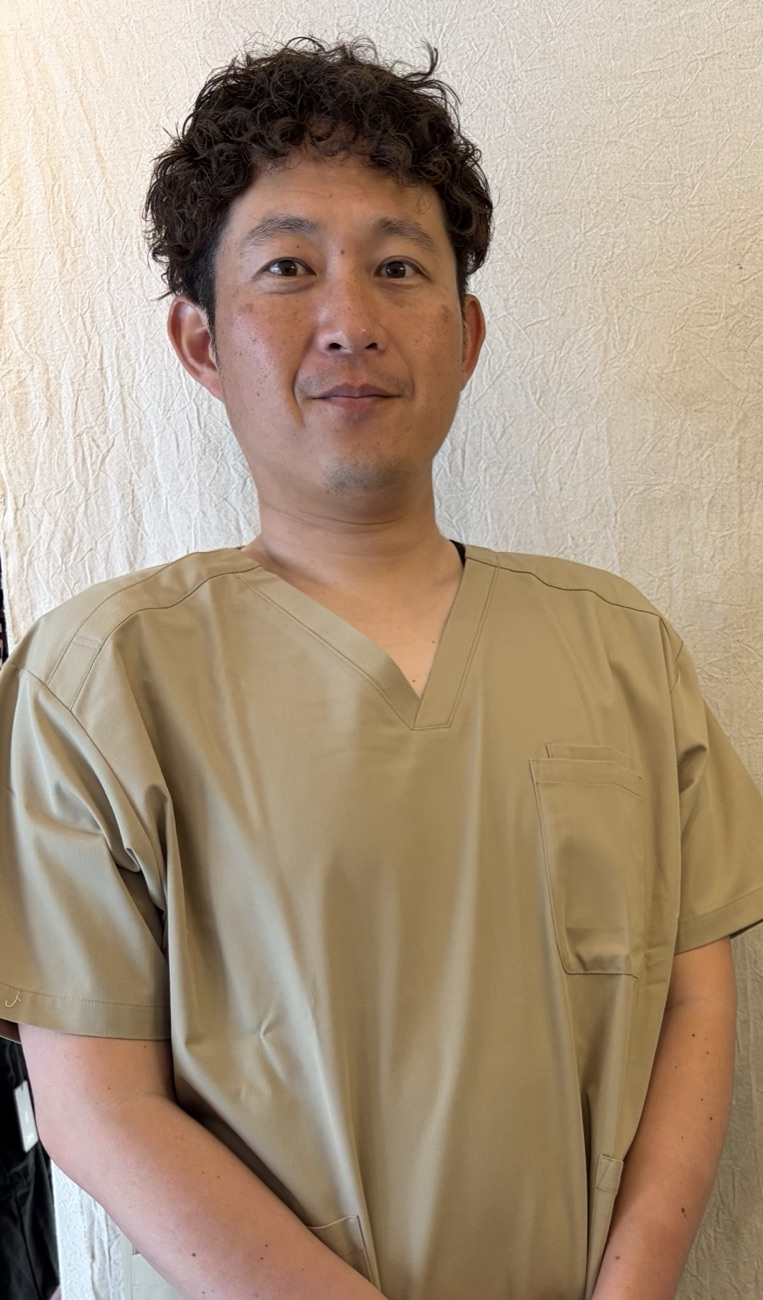
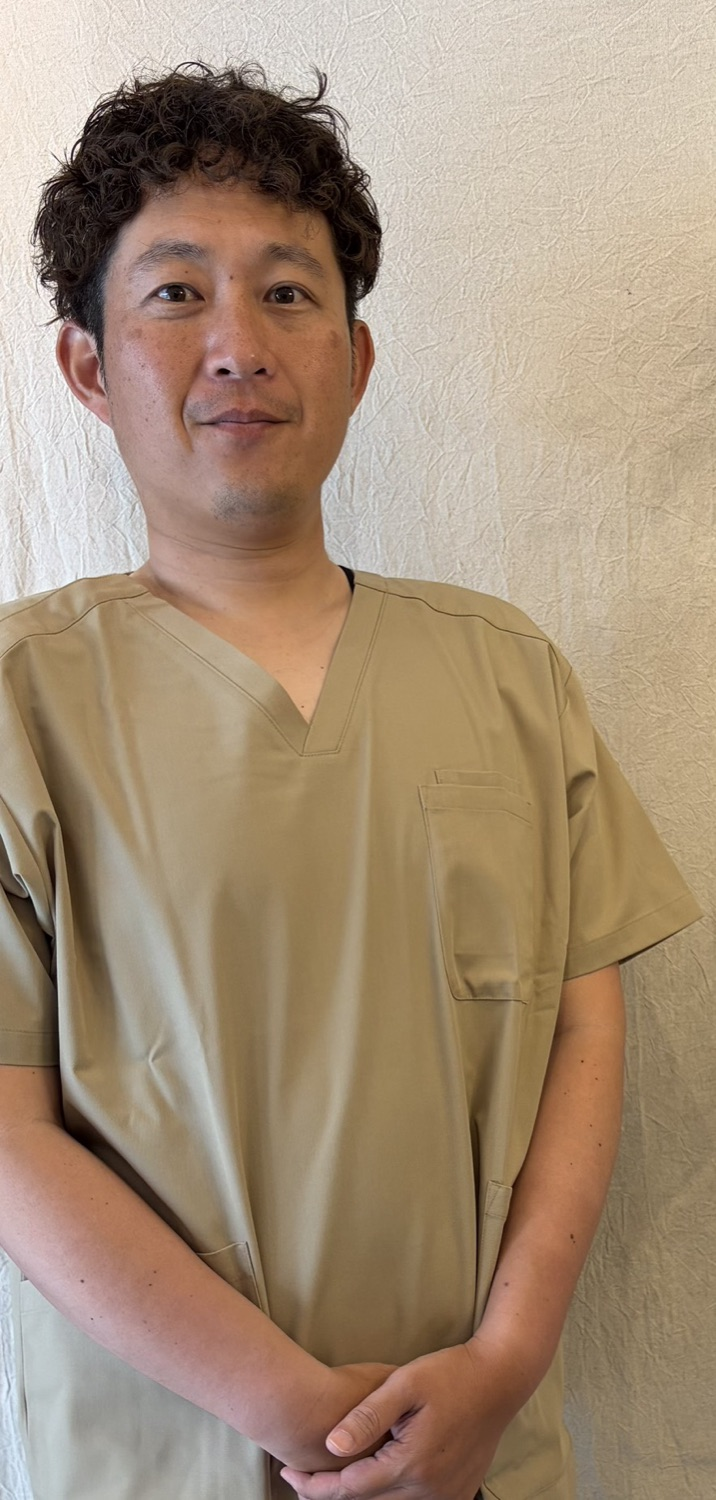
クライアント修正反映：「フェイシャル」表記を全削除、電話番号(070-5480-2647)を掲載、施術メニューに初回料金(πテラピー8,800円/自律神経整体5,500円/骨格矯正5,500円 税込)を追加、院長プロフィール写真を新ポートレートに差し替え。看板メニュー説明を文単位で改行。Dockerfileの存在しないblog.html参照を削除しビルド失敗を修正

diff --git a/index.html b/index.html
@@ -4,7 +4,7 @@
 <meta charset="utf-8">
 <meta name="viewport" content="width=device-width,initial-scale=1,viewport-fit=cover">
 <title>【2026.7.1 GRAND OPEN】いさか鍼灸・美容整体院｜自律神経の乱れを原因からアプローチする美容整体・鍼灸サロン</title>
-<meta name="description" content="【2026年7月1日グランドオープン】いさか鍼灸・美容整体院は、πテラピー美容整体・自律神経整体・骨格矯正で、自律神経の乱れを原因からアプローチする完全予約制サロン。40〜60代女性に選ばれる美容整体・フェイシャルケア。肩こり・腰痛にも対応。">
+<meta name="description" content="【2026年7月1日グランドオープン】いさか鍼灸・美容整体院は、πテラピー美容整体・自律神経整体・骨格矯正で、自律神経の乱れを原因からアプローチする完全予約制サロン。40〜60代女性に選ばれる美容整体ケア。肩こり・腰痛にも対応。">
 <meta name="robots" content="noindex,nofollow">
 <meta property="og:title" content="【New Open】いさか鍼灸・美容整体院">
 <meta property="og:description" content="自律神経の乱れを原因からアプローチする、新しい美容整体・鍼灸サロン。">
@@ -233,7 +233,7 @@ ul{margin:0;padding:0;list-style:none}
 .profile{background:#fffdf8}
 .prof-grid{display:grid;grid-template-columns:.9fr 1.1fr;gap:60px;align-items:center;margin-top:50px}
 .prof-img{aspect-ratio:4/5;border-radius:24px;overflow:hidden;background:linear-gradient(180deg,#e9dcc6,#d9c4a3);position:relative;box-shadow:var(--shadow)}
-.prof-img img{width:100%;height:100%;object-fit:cover;object-position:38% 32%}
+.prof-img img{width:100%;height:100%;object-fit:cover;object-position:50% 16%}
 .prof-body .name-jp{font-family:var(--serif);font-size:30px;color:var(--brown-deep);letter-spacing:.06em}
 .prof-body .name-en{font-family:var(--latin);font-style:italic;color:var(--wood);letter-spacing:.18em;margin:8px 0 24px}
 .prof-body .role{display:inline-block;padding:6px 16px;background:rgba(184,152,90,.12);color:var(--wood-dark);border-radius:999px;font-size:12px;letter-spacing:.14em;margin-bottom:20px}
@@ -265,6 +265,10 @@ ul{margin:0;padding:0;list-style:none}
 .menu-card .badge{display:inline-block;font-family:var(--latin);font-style:italic;font-size:12px;color:var(--wood);letter-spacing:.18em;margin-bottom:10px}
 .menu-card h4{font-family:var(--serif);font-size:19px;color:var(--brown-deep);margin-bottom:14px}
 .menu-card p{font-size:13.5px;line-height:1.9;color:#5d5042;margin-bottom:18px}
+.menu-card .price{display:flex;align-items:baseline;gap:8px;flex-wrap:wrap;margin-bottom:14px;padding-bottom:14px;border-bottom:1px dashed rgba(184,152,90,.3)}
+.menu-card .price .lbl{font-size:12px;color:var(--wood-dark);letter-spacing:.1em;background:rgba(184,152,90,.12);padding:3px 10px;border-radius:999px}
+.menu-card .price .amt{font-family:var(--serif);font-size:22px;color:var(--brown-deep);font-weight:600;letter-spacing:.02em}
+.menu-card .price .tax{font-size:11px;color:#8a7860}
 .menu-card .time{font-size:12px;color:var(--wood-dark);letter-spacing:.1em;padding-top:14px;border-top:1px dashed rgba(184,152,90,.3)}
 .menu-note{margin-top:30px;text-align:center;font-size:13px;color:#7a6b58;line-height:1.9}
 @media(max-width:680px){.menu-list{grid-template-columns:1fr}}
@@ -492,11 +496,11 @@ ul{margin:0;padding:0;list-style:none}
       <article class="sol-card reveal">
         <div class="sol-img">
           <span class="sol-img-label">Approach 01</span>
-          <img src="assets/pi-therapy.jpg" alt="πテラピー美容整体フェイシャル">
+          <img src="assets/pi-therapy.jpg" alt="πテラピー美容整体">
         </div>
         <div class="sol-body">
           <p class="read">For Your Beauty</p>
-          <h3>πテラピー美容整体<small style="display:block;font-family:var(--latin);font-style:italic;font-size:11px;color:var(--wood);letter-spacing:.18em;font-weight:300;margin-top:4px">πTHERAPY &nbsp;FACIAL</small></h3>
+          <h3>πテラピー美容整体<small style="display:block;font-family:var(--latin);font-style:italic;font-size:11px;color:var(--wood);letter-spacing:.18em;font-weight:300;margin-top:4px">πTHERAPY</small></h3>
           <p>
             日本と韓国、それぞれの<strong>美の技術を融合して生まれた肌再生プログラム</strong>。専用クリームと皮膚管理プログラムで、肌の外側と内側、そして表情筋へやさしくアプローチします。<br>
             くすみ・たるみ・むくみ・小顔ライン、首から上の重さやストレスによる揺らぎまで。痛みはほとんどなく、「ストレスのない」心地よさの中で、明るい印象へと導きます。
@@ -693,25 +697,29 @@ ul{margin:0;padding:0;list-style:none}
       <div class="menu-card reveal" style="border:2px solid var(--gold);background:linear-gradient(180deg,#fffdf8,#f3ebde);position:relative">
         <span style="position:absolute;top:-12px;right:20px;background:var(--gold);color:#fff;font-size:11px;padding:5px 14px;border-radius:999px;letter-spacing:.14em">看板メニュー</span>
         <span class="badge">— Beauty / Most Popular —</span>
-        <h4>πテラピー美容整体フェイシャル</h4>
-        <p>当院の看板メニュー。日本と韓国の美の技術を融合した肌再生プログラムで、専用クリームと皮膚管理により肌の内外・表情筋へアプローチ。くすみ・たるみ・むくみ・小顔ラインが気になる方へ、痛みの少ない心地よい時間を。</p>
+        <h4>πテラピー美容整体</h4>
+        <p>当院の看板メニュー。<br>日本と韓国の美の技術を融合した肌再生プログラムで、専用クリームと皮膚管理により肌の内外・表情筋へアプローチ。<br>くすみ・たるみ・むくみ・小顔ラインが気になる方へ、痛みの少ない心地よい時間を。</p>
+        <div class="price"><span class="lbl">初回</span><span class="amt">8,800円</span><span class="tax">（税込）</span></div>
         <p class="time">所要時間：約 60〜90 分（初回はカウンセリングを含みます）</p>
       </div>
       <div class="menu-card reveal">
         <span class="badge">— Autonomic —</span>
         <h4>自律神経整体</h4>
         <p>自律神経の乱れに直接アプローチする専門施術。眠りの浅さ・頭の重さ・原因のわからない不調に寄り添う、優しい根本ケアです。</p>
+        <div class="price"><span class="lbl">初回</span><span class="amt">5,500円</span><span class="tax">（税込）</span></div>
         <p class="time">所要時間：約 30 分</p>
       </div>
       <div class="menu-card reveal">
         <span class="badge">— Structure —</span>
         <h4>骨格矯正（肩こり・腰痛）</h4>
         <p>長年の肩こり・腰痛の背景にある骨格バランスの崩れを、ボキボキしない優しい矯正で整えます。デスクワーク・立ち仕事の方に。</p>
+        <div class="price"><span class="lbl">初回</span><span class="amt">5,500円</span><span class="tax">（税込）</span></div>
         <p class="time">所要時間：約 30 分</p>
       </div>
     </div>
     <p class="menu-note">
-      ※ 料金・初回のご案内は、ご予約時または公式LINEにてお伝えしております。<br>
+      ※ 表示価格はすべて初回料金（税込）です。<br>
+      2回目以降の料金やコースの詳細は、ご予約時または公式LINEにてご案内しております。<br>
       お気軽にお問い合わせください。
     </p>
   </div>
@@ -727,7 +735,7 @@ ul{margin:0;padding:0;list-style:none}
     </div>
     <div class="qa-list">
       <div class="qa-item"><button class="qa-q">本当に痛くないですか？ボキボキされませんか？</button><div class="qa-a"><div class="qa-a-inner">はい、ご安心ください。当院ではボキボキする矯正・強い圧でのマッサージは一切行いません。神経への繊細なアプローチが軸ですので、ほとんどの方が「触れているだけ？」と驚かれます。骨格矯正も、痛みの少ない優しい方法で行いますのでご安心ください。</div></div></div>
-      <div class="qa-item"><button class="qa-q">美容目的だけでも通えますか？</button><div class="qa-a"><div class="qa-a-inner">もちろんです。お顔のたるみや左右差、フェイスラインのもたつきが気になる方には、看板メニューの「πテラピー美容整体フェイシャル」を中心にご案内しています。お身体の不調もあわせて整えたい方には、自律神経整体や骨格矯正との組み合わせもご提案しています。</div></div></div>
+      <div class="qa-item"><button class="qa-q">美容目的だけでも通えますか？</button><div class="qa-a"><div class="qa-a-inner">もちろんです。お顔のたるみや左右差、フェイスラインのもたつきが気になる方には、看板メニューの「πテラピー美容整体」を中心にご案内しています。お身体の不調もあわせて整えたい方には、自律神経整体や骨格矯正との組み合わせもご提案しています。</div></div></div>
       <div class="qa-item"><button class="qa-q">どのくらいの頻度で通えばいいですか？</button><div class="qa-a"><div class="qa-a-inner">お身体の状態によって異なります。初回のカウンセリングで、無理のない通院ペースをご提案します。多くの方は、1週間に1〜2回、整ってきたら月2〜3回のメンテナンスへ移行されています。</div></div></div>
       <div class="qa-item"><button class="qa-q">妊娠中・産後でも受けられますか？</button><div class="qa-a"><div class="qa-a-inner">妊娠中の方は、安定期以降であれば体勢を工夫してご対応可能です。産後の方には、骨盤周りと自律神経の両方に配慮した優しいコースをご用意しています。ご予約時に必ずお知らせください。</div></div></div>
       <div class="qa-item"><button class="qa-q">男性でも予約できますか？</button><div class="qa-a"><div class="qa-a-inner">もちろんご予約いただけます。慢性的な肩こり・腰痛でお悩みの男性の方も多くいらっしゃいます。完全予約制ですので、人目を気にせずお越しいただけます。</div></div></div>
@@ -749,7 +757,7 @@ ul{margin:0;padding:0;list-style:none}
         <dl>
           <div><dt>院名</dt><dd>いさか鍼灸・美容整体院</dd></div>
           <div><dt>住所</dt><dd>〒550-0022<br>大阪府大阪市西区本田2丁目1-5<br>グリーンヒルズ</dd></div>
-          <div><dt>電話番号</dt><dd>オープン準備中<br><small style="color:#8a7860">※ご予約は公式LINE・予約フォームをご利用ください</small></dd></div>
+          <div><dt>電話番号</dt><dd><a href="tel:07054802647" style="color:var(--wood-dark);font-weight:500;letter-spacing:.04em">070-5480-2647</a><br><small style="color:#8a7860">※ご予約は公式LINE・予約フォームもご利用いただけます</small></dd></div>
           <div><dt>アクセス</dt><dd>大阪メトロ中央線・千日前線「阿波座駅」より徒歩約10分<br>大阪メトロ中央線「九条駅」より徒歩約10分</dd></div>
           <div><dt>駐車場</dt><dd>近隣コインパーキングをご利用ください</dd></div>
           <div><dt>予約方法</dt><dd>公式LINE・予約フォーム<br>（完全予約制）</dd></div>
@@ -806,6 +814,7 @@ ul{margin:0;padding:0;list-style:none}
         <ul>
           <li>〒550-0022</li>
           <li>大阪府大阪市西区本田2-1-5<br>グリーンヒルズ</li>
+          <li>TEL：<a href="tel:07054802647">070-5480-2647</a></li>
           <li>受付：午前 9:00–13:00 ／ 午後 15:00–20:00</li>
           <li>土・祝 9:00–15:00 ／ 日曜・木曜午後 休</li>
           <li>2026年7月1日 グランドオープン</li>
